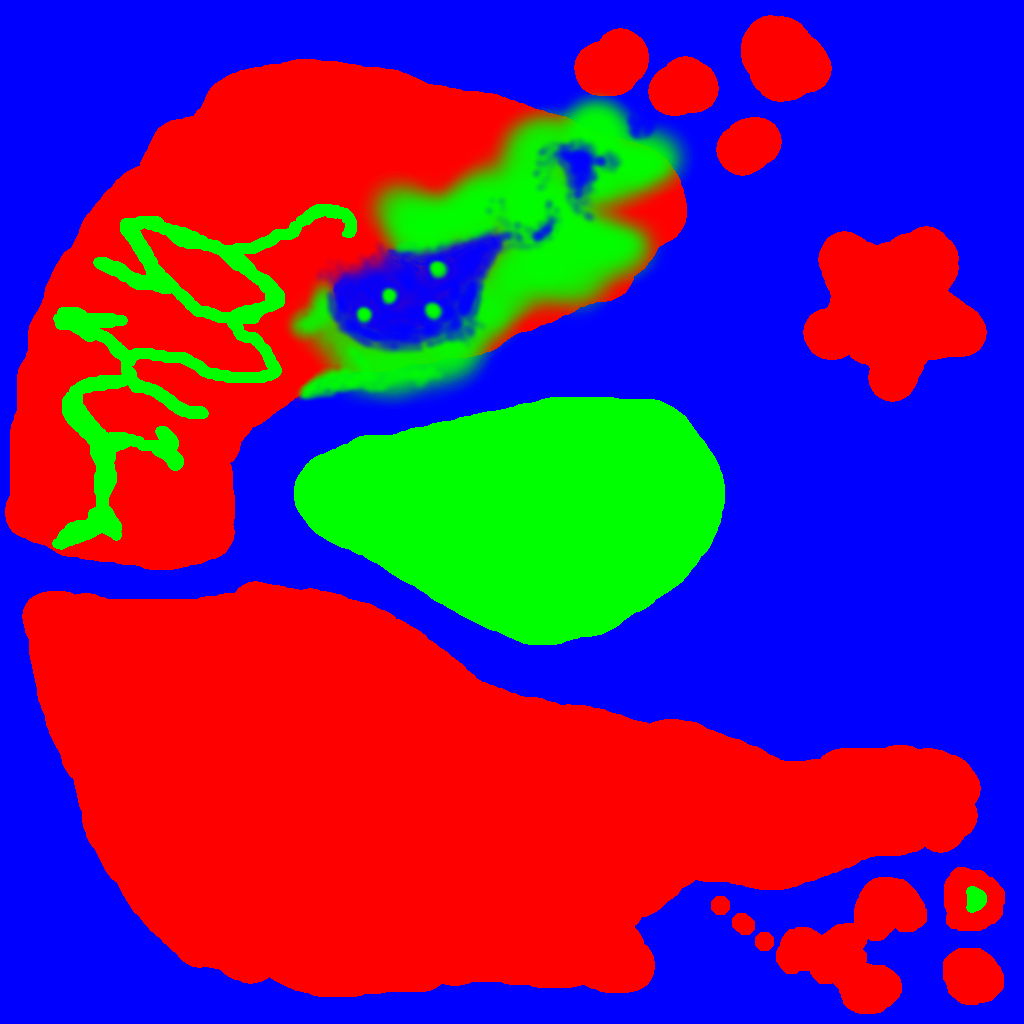
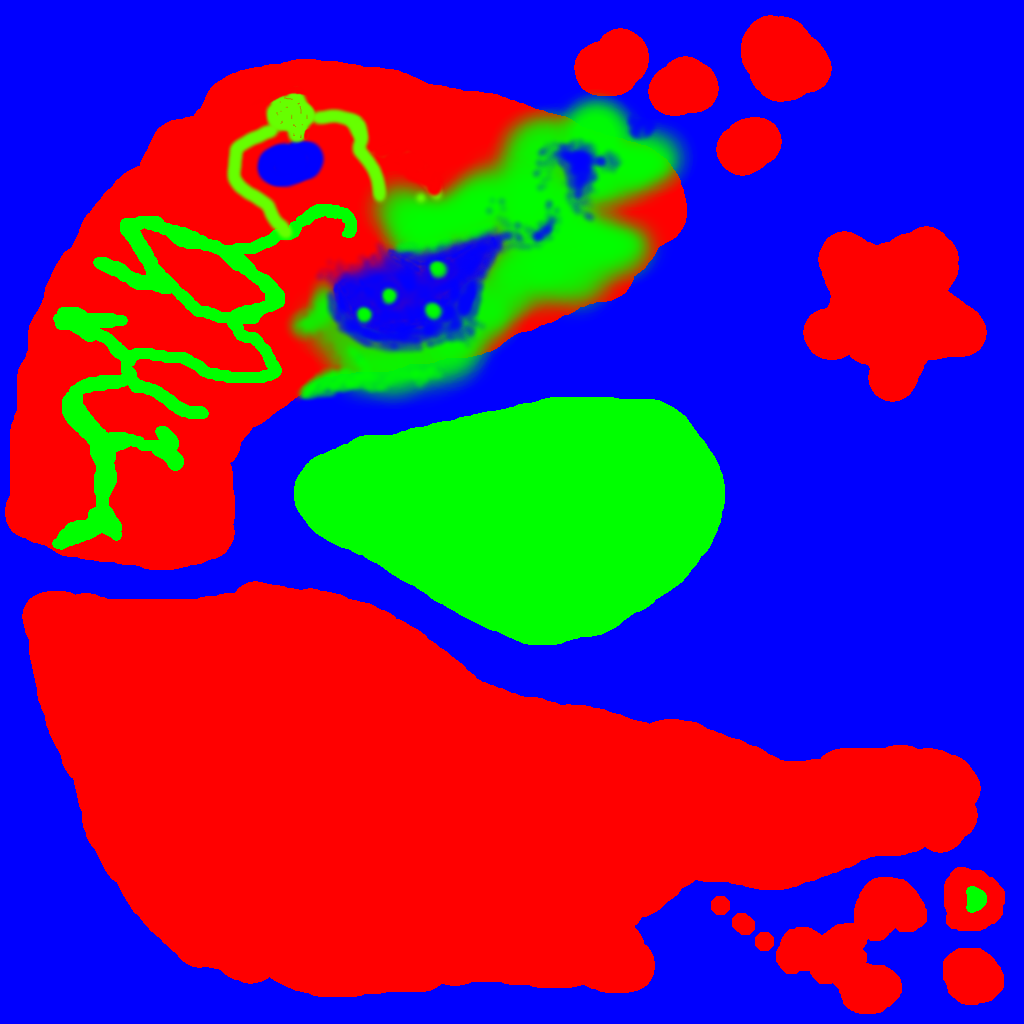
Unityで配置しています。 地面のテクスチャ変更。

Changed region(s): [[0.2188, 0.0938, 0.375, 0.25], [0.4062, 0.1875, 0.4375, 0.2188]]

diff --git a/game/ExportHistoryChip_2017/Assets/Editor/CSVExportFunction.cs b/game/ExportHistoryChip_2017/Assets/Editor/CSVExportFunction.cs
@@ -258,7 +258,7 @@ public class CSVExportFunction : Editor
     static public Transform FindObject(Transform group,string name)
     {
         //オブジェクト検索
-        Transform obj = group.FindChild(name);
+        Transform obj = group.Find(name);
         if (obj == null)
         {
             Debug.LogError(group.name + ":子に" + name + "が見つかりませんでした。");

diff --git a/game/ExportHistoryChip_2017/Assets/Scripts/ExportEnemy.cs b/game/ExportHistoryChip_2017/Assets/Scripts/ExportEnemy.cs
@@ -7,7 +7,8 @@ public class ExportEnemy : MonoBehaviour {
     //エネミーのタイプ
     public enum EnemyType
     {
-        Bone,   //骨
+        Bone,   	//骨
+        Drarian,	//第１のボスドラリアン
     }
     //エネミーのタイプ指定。
     public EnemyType _EnemyType;

diff --git a/game/Decide/Decide/GameObject/Enemy/BossDrarian.cpp b/game/Decide/Decide/GameObject/Enemy/BossDrarian.cpp
@@ -10,6 +10,7 @@
 
 BossDrarian::BossDrarian(const char* name) : EnemyCharacter(name)
 {
+
 }
 
 
